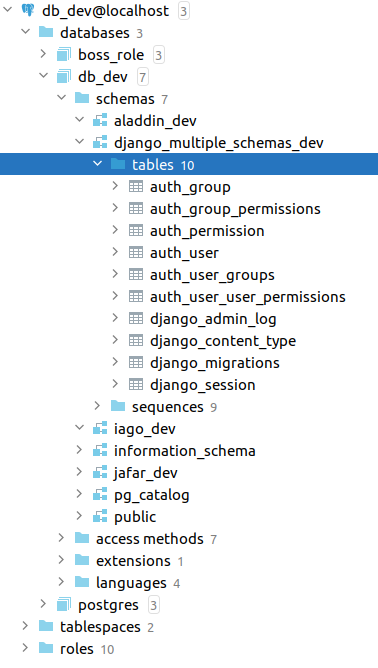
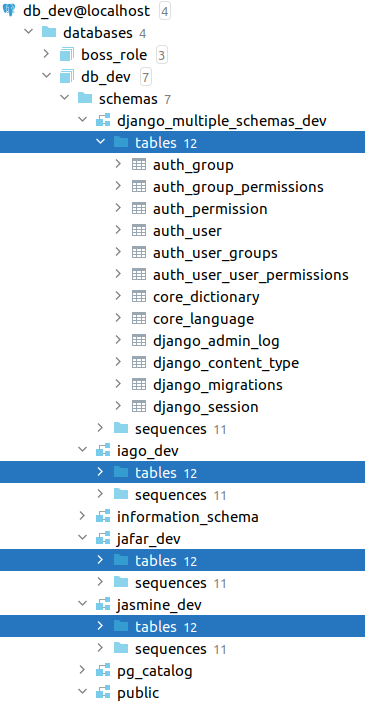
docs: example of multiple schemas usage and explanations

diff --git a/README.md b/README.md
@@ -6,9 +6,11 @@
 
 Here you'll find an honest project that shows how to use schema with Django. It has a script that creates all the scenario the project needs in PostgreSQL, it even has tests to guarantee that it is created as expected. Check more details below!
 
-## Running the project
+## Running the project and checking multiple schemas working
 
-Execute `docker-compose up remote-interpreter` and then access `http://0.0.0.0:8000/`. Use `admin` for _username_ and _password_.
+Execute `docker-compose up -d remote-interpreter jafar-app iago-app jasmine-app`. After they are running, you can check the database through its port (you can use a client for that, like [DataGrip](https://www.jetbrains.com/datagrip/)). If you'd like to access `remote-interpreter` service administration panel, access `http://0.0.0.0:8000/` and use `admin` for _username_ and _password_.
+
+All the services can be accessed through their admin interface. Please see [docker-compose.yaml](./docker-compose.yaml) to figure out which port to use.
 
 ## Why this project?
 
@@ -45,6 +47,14 @@ Because when you use `@pytest.mark.django_db` fixture, pytest will create a dedi
 4. Which kind of [ROLE](https://www.postgresql.org/docs/13/database-roles.html) does my application need?
 
 The basic thing is that your application should run with a role that can do full DQL and DML on the target schema, but not DDL. If you'd like to run `python manage.py migrate`, you can use a dedicated role just for that.
+
+5. Can I configure multiple schemas in a single Django Application?
+
+Yes, it's possible. Django can only apply migration to one folder/schema per database/entry configured in `DATABASES` dict variable in `settings.py`. If you check [here](https://github.com/willianantunes/django-multiple-schemas/blob/2deb15de36d1229f19bd4422d3f55b0d7a57a797/django_multiple_schemas/settings.py#L85), you will see that I'm using only one database that is identified as `default`. Now if you need multiple schemas, let's say two, you can have `default` key followed by `my-another-setup`, and then use another schema in it.
+
+6. Can [search path](https://github.com/willianantunes/django-multiple-schemas/blob/2deb15de36d1229f19bd4422d3f55b0d7a57a797/django_multiple_schemas/settings.py#L89) has more than one schema?
+
+Yes. You can have something like `-c search_path=iago_dev,jafar_dev`.
 
 ## Development
 
